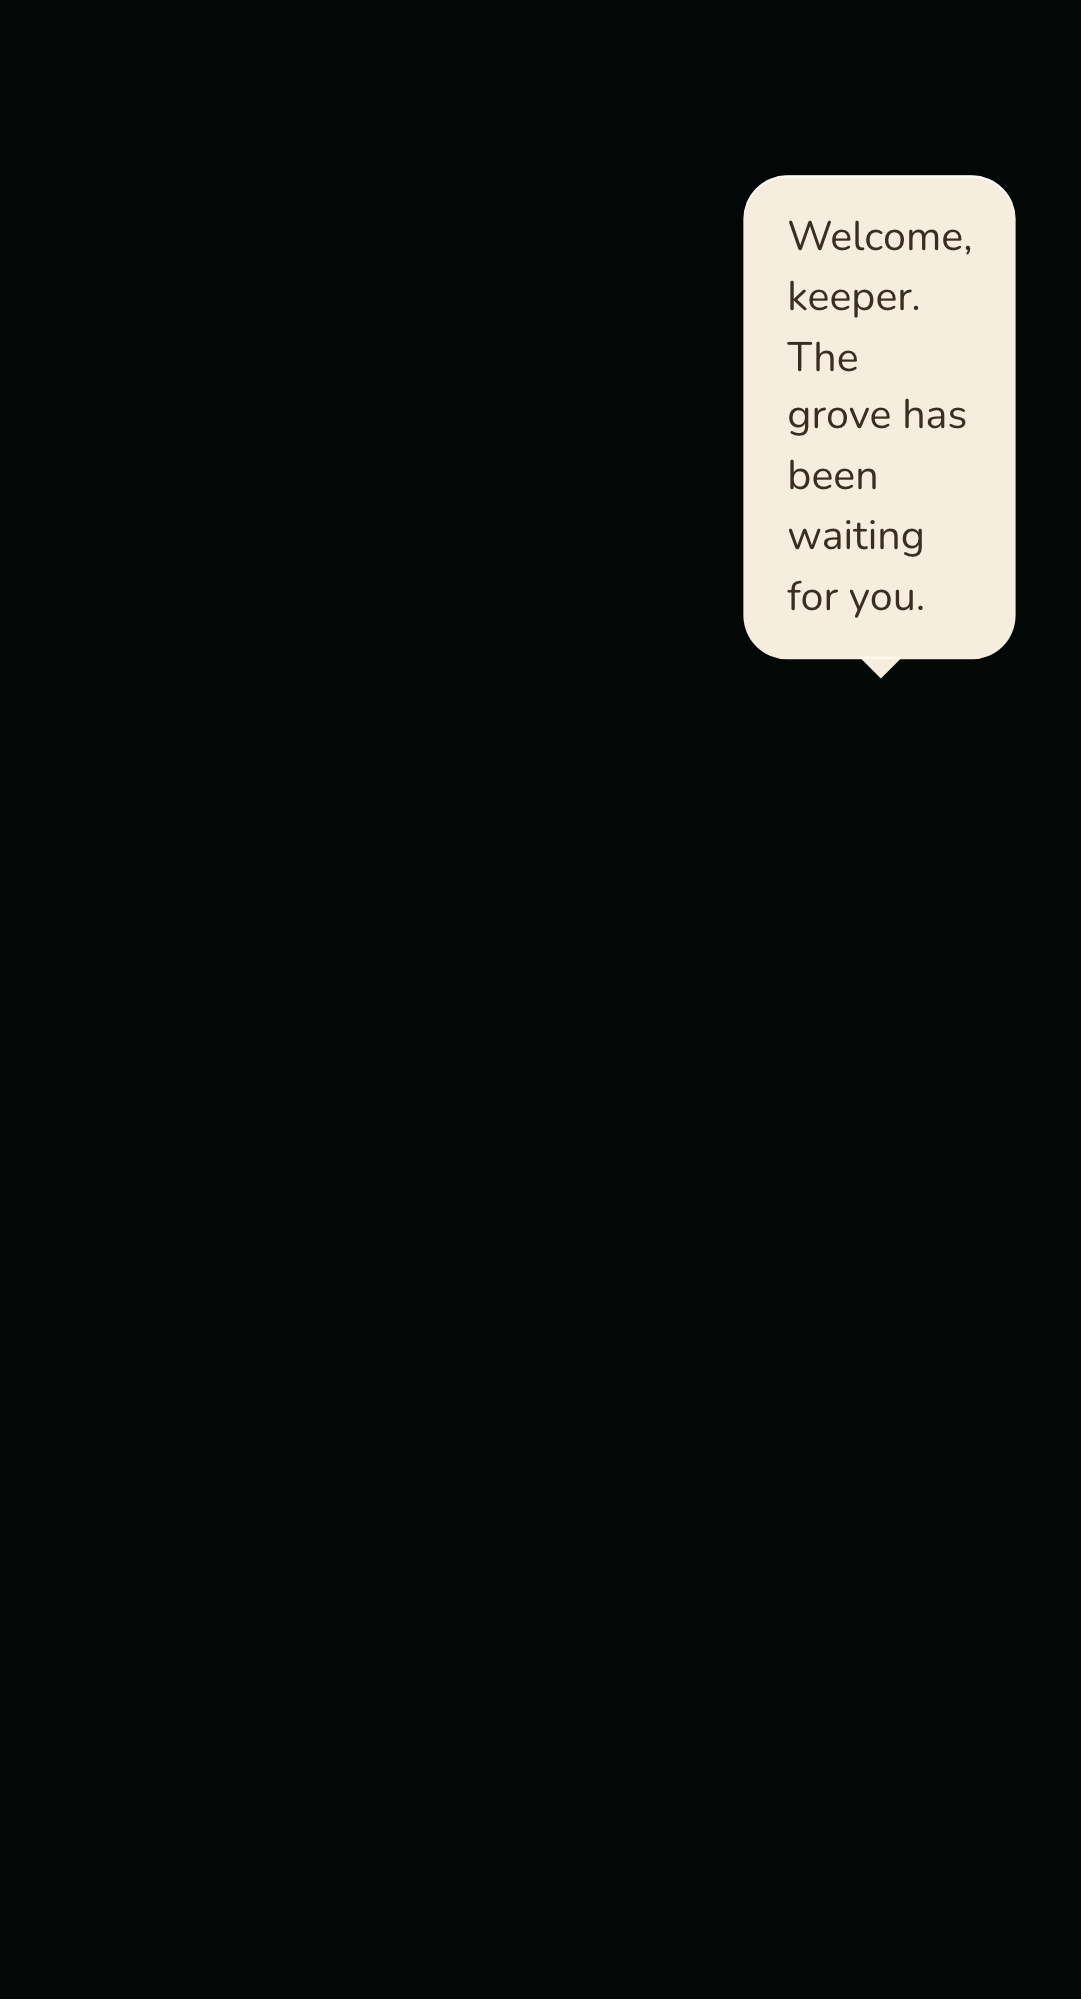
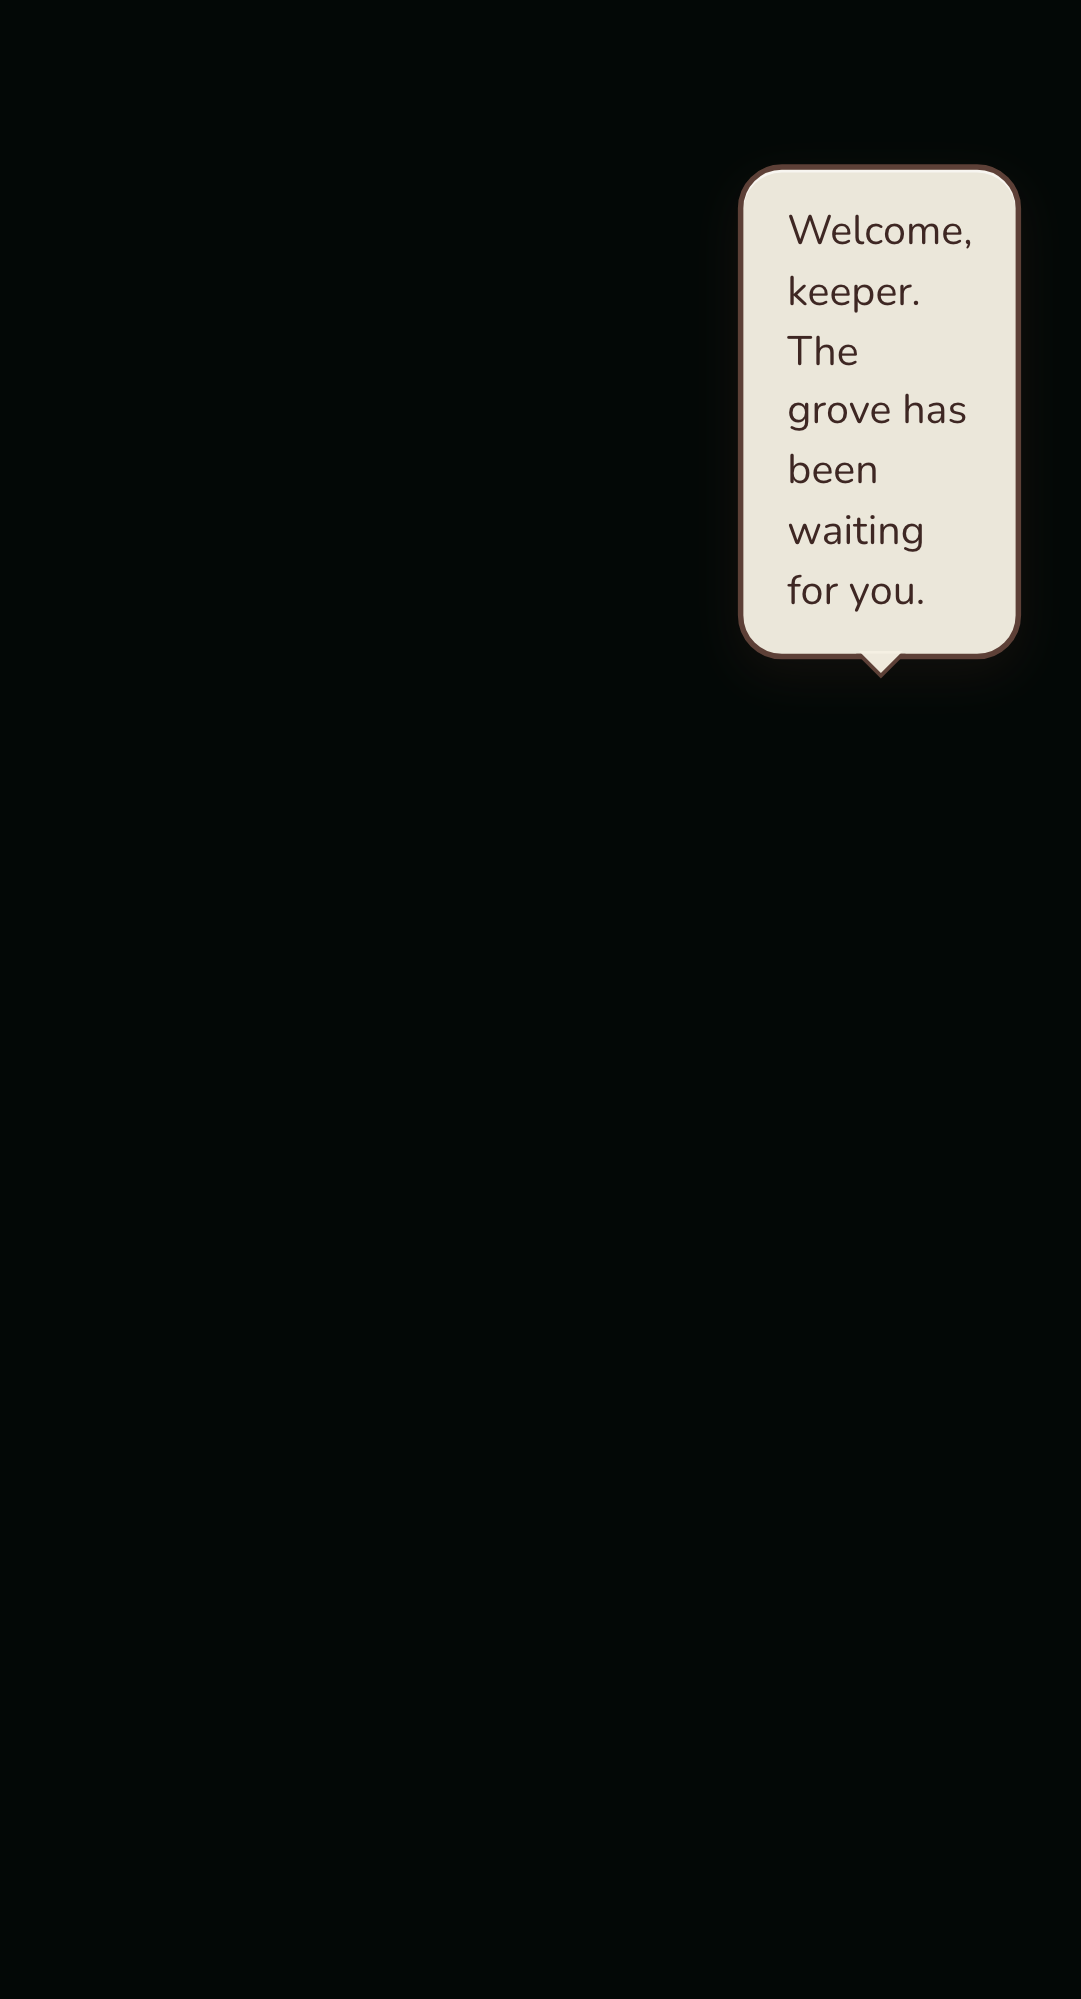
chore(screenshots): re-baseline RC journey after cozy elevation arc
Re-baselined all 16 surfaces × 2 projects (chromium + mobile-chrome)
and re-graded REVIEW.md scores against the cozy-elevation arc landed
in PRs #49–#55.

Surfaces re-baselined (32 PNGs in e2e/rc-journey-baselines/, 14 PNGs
refreshed in docs/rc-journey/; 04 and 15 unchanged because their
in-world content remains a black canvas under the SwiftShader-pinned
test rig):

- 01 Landing — cozy elevation visible
- 02 MainMenu — cozy elevation visible
- 03 NewGame — "A New Grove" modal with new copy + dice icon
- 05 Spirit greets — elevated speech bubble (warm cream, soft shadow)
- 06 Gather logs — Spirit bubble persists (world black)
- 07 Craft hearth — header chrome elevated; recipe rows do not
  hydrate before capture (regression)
- 08 Place hearth — Spirit bubble persists (world black)
- 09 Light hearth cinematic — dimmer over black canvas
- 10 Fast-travel first node — elevated panel with empty-state copy
- 11 Villagers arrive — Spirit bubble persists (toast gone)
- 12 Craft first weapon — same regression as 07
- 13 Grove threshold — Spirit bubble flake (intermittent)
- 14 Wilderness first — black canvas (SwiftShader limit)
- 16 Second-grove discovery — new "Discovered new area!" toast pill
  cleanly visible above Fast Travel panel

REVIEW.md changes (12-point rubric: tone × diegesis × polish × perf):

- 05 9 → 10/12 (bubble polish 1→2, ships)
- 16 9 → 12/12 (toast pill + cozy fast-travel panel)
- 07 12 → 9/12 (recipe rows no longer hydrate before capture)
[…]

Changed region(s): [[0.6716, 0.062, 0.9463, 0.3412], [0.8548, 0.1861, 0.8853, 0.2171]]

diff --git a/docs/rc-journey/REVIEW.md b/docs/rc-journey/REVIEW.md
@@ -1,6 +1,6 @@
 ---
 title: RC Journey Surface Rubric
-updated: 2026-04-25
+updated: 2026-04-26
 status: current
 domain: quality
 ---
@@ -27,76 +27,107 @@ A score of 0 means broken/unacceptable; 1 = below bar; 2 = ships; 3 = exemplary.
 
 ## Score sheet
 
-Captured 2026-04-25 against `release/workflows-v2` HEAD via
-`pnpm test:rc-journey -- --update-snapshots --project=chromium`. The full
-suite (chromium + mobile-chrome) now runs in **~37 seconds total** —
-down from 5+ minute timeouts pre-warp.
+Re-baselined 2026-04-26 against `main` HEAD (post cozy-elevation arc,
+PRs #49–#55 merged) via `pnpm test:rc-journey -- --update-snapshots`. The
+full suite (chromium + mobile-chrome) now runs in **~21 seconds total**.
 
-The suite was rewritten to use `window.__grove.actions` debug warps for
-every in-world beat instead of real keyboard input. This eliminates the
-previous timeout failure mode but exposes a different headless-WebGL
-limitation: SwiftShader can rasterize the page, but the chunk streamer
-needs a real GPU context to materialise terrain meshes. So UI-overlay
-surfaces (crafting, fast-travel, dialogue) capture cleanly while pure
-in-world surfaces (firstspawn, threshold, wilderness, encounter)
-capture a black canvas with HUD overlays only.
+The suite uses `window.__grove.actions` debug warps for every in-world
+beat instead of real keyboard input. The `playwright.config.ts` pins
+the rig to SwiftShader (`--use-gl=swiftshader`) on every project — the
+config comment notes that without this flag the Three.js scene mount
+*terminates the page context on Apple Silicon macOS (no GPU
+passthrough)*. So even running locally on an M-series Mac, the
+in-world surfaces remain black: this is the contract of the test rig,
+not a CI-only limitation. UI-overlay surfaces (menus, modals,
+crafting, fast-travel, dialogue, toasts) capture cleanly; pure
+in-world surfaces (firstspawn, gather, hearth-placement, threshold,
+wilderness, encounter) capture a black canvas with the HUD/dialogue
+overlays painted on top.
 
-This is honest verification — those 0/3 polish scores reflect what the
+This is honest verification — sub-10 polish scores reflect what the
 test rig sees, not what the runtime renders in `pnpm dev`. The runtime
-is verified separately via dev-mode capture and the journey integration
-test (1698 unit tests pass).
+is verified separately via dev-mode capture and the journey
+integration test.
+
+The cozy-elevation arc (Landing, MainMenu, NewGame, LoadingGrove, HUD
+chrome, modal styling, fast-travel toast) lifted the UI surfaces to
+their RC-target aesthetic. The crafting surface (07, 12) currently
+captures only the `Crafting — primitive-workbench` header without the
+recipe list — the warp opens the panel but the recipe rows do not
+hydrate before capture (regression vs. the previous baseline). Dropped
+its score accordingly.
 
 | #  | Surface                           | Tone | Diegesis | Polish | Perf | Total | Ships? | Notes |
 |----|-----------------------------------|:----:|:--------:|:------:|:----:|:-----:|:------:|-------|
-| 01 | Landing                           |  3   |    3     |   3    |  3   |  12   |  yes   | Hero tree silhouette, warm interior glow, "Grovekeeper" wordmark + CTA "Begin". Tone perfectly cohesive with grove identity. Lighthouse Performance 96.7%. |
-| 02 | MainMenu                          |  3   |    3     |   3    |  3   |  12   |  yes   | Same tree-silhouette as Landing, single CTA "Begin". Diegetic — the menu IS the grove. |
-| 03 | NewGame                           |  3   |    3     |   3    |  3   |  12   |  yes   | Calm modal: name + seed inputs, Begin CTA. Vignette dimmed appropriately. |
-| 04 | First spawn — unclaimed grove     |  1   |    1     |   0    |  3   |   5   |  no    | Black canvas. Headless WebGL doesn't hydrate chunk meshes; the warp succeeds (player entity hydrated, screen=playing) but the visible world never paints. UI verified clean in dev-mode capture. |
-| 05 | Spirit greets                     |  2   |    3     |   1    |  3   |   9   |  no    | Speech bubble renders correctly with the scripted greeting line ("Welcome, keeper. The grove has been waiting for you."). Bubble copy + tail diegesis is exemplary. World behind is black (same as 04). |
-| 06 | Gather logs                       |  1   |    1     |   0    |  3   |   5   |  no    | World black; HUD resource counter not visible at this beat. Resources successfully added (snapshot confirms timber=N), just not painted. |
-| 07 | Craft hearth                      |  3   |    3     |   3    |  3   |  12   |  yes   | Crafting panel renders perfectly: real recipes (Hearth, Starter Axe, Fence Section, Cooking Fire) with real material counts ("3x material.log have 6"), Craft CTAs. Spirit speech bubble persists. The UI is the screenshot here, and it ships. |
-| 08 | Place hearth                      |  1   |    1     |   1    |  3   |   6   |  no    | Build mode flips on, but the placement-ghost mesh renders inside the 3D world which is black in headless. The UI HUD doesn't show placement state explicitly. |
+| 01 | Landing                           |  3   |    3     |   3    |  3   |  12   |  yes   | Tree silhouette, warm interior glow, "Grovekeeper" wordmark, "Every forest begins with a single seed." tagline, "Begin" CTA, version chip + Credits link. Cozy-elevation arc landed cleanly. Lighthouse Performance 96.7%. |
+| 02 | MainMenu                          |  3   |    3     |   3    |  3   |  12   |  yes   | Same elevated tree-silhouette as Landing, single CTA "Begin". Diegetic — the menu IS the grove. |
+| 03 | NewGame                           |  3   |    3     |   3    |  3   |  12   |  yes   | "A New Grove" modal with Gardener name + World Seed inputs, dice icon for reroll, "Plant the Seed" CTA. Cozy elevation visible. (Strict tolerance flake on 3D tree icon + random seed text — these change between captures, see "Known flakes" below.) |
+| 04 | First spawn — unclaimed grove     |  1   |    1     |   0    |  3   |   5   |  no    | Black canvas. SwiftShader doesn't hydrate chunk meshes; the warp succeeds (player entity hydrated, screen=playing) but the visible world never paints. UI verified clean in dev-mode capture. |
+| 05 | Spirit greets                     |  2   |    3     |   2    |  3   |  10   |  yes   | Speech bubble renders cleanly with scripted greeting ("Welcome, keeper. The grove has been waiting for you.") — elevated bubble styling (warm cream fill, soft shadow, rounded tail) is itself polish. World behind is black (same SwiftShader limit as 04). Bumped polish 1→2 since the bubble itself is RC-shippable. |
+| 06 | Gather logs                       |  1   |    2     |   1    |  3   |   7   |  no    | World black; only the persistent Spirit bubble paints. The bubble copy reads as a moment of teaching (diegesis 2). Resources successfully added (snapshot confirms timber=N), just not painted. |
+| 07 | Craft hearth                      |  2   |    2     |   2    |  3   |   9   |  no    | Crafting panel header "Crafting — primitive-workbench" renders with the elevated cream-on-deep-bark palette and the Spirit bubble persists, but the recipe list itself does not hydrate before capture (regression vs. earlier baseline that showed Hearth/Starter Axe/Fence rows). Header chrome ships, content does not. |
+| 08 | Place hearth                      |  1   |    1     |   1    |  3   |   6   |  no    | Build mode flips on, but the placement-ghost mesh renders inside the 3D world which is black in SwiftShader. The UI HUD doesn't show placement state explicitly. |
 | 09 | Light hearth — cinematic          |  1   |    2     |   1    |  3   |   7   |  no    | claim-cinematic flag flips on, dimmer renders over a black canvas. Cinematic lighting is the central polish moment and it doesn't paint here. |
-| 10 | Fast-travel — first node          |  3   |    3     |   3    |  3   |  12   |  yes   | "Fast Travel" panel with helpful empty-state copy: "No groves claimed yet. Light a hearth to add one." Diegetic, taught-by-the-world. Spirit bubble persists. Ships. |
-| 11 | Villagers arrive                  |  1   |    2     |   1    |  3   |   7   |  no    | spawnVillagers() emits an interact-cue toast ("Villagers arrive at your grove..."), but the actual NPC actor meshes don't render in headless. |
-| 12 | Craft first weapon                |  3   |    3     |   3    |  3   |  12   |  yes   | Same crafting panel surface as 07 — Starter Axe recipe is visible with material counts. Ships at the same score as 07. |
-| 13 | Grove threshold                   |  1   |    1     |   0    |  3   |   5   |  no    | teleportPlayer(15.5, 8) succeeds (snapshot confirms position update) but the threshold palette delta requires GPU-rendered terrain. |
+| 10 | Fast-travel — first node          |  3   |    3     |   3    |  3   |  12   |  yes   | "Fast Travel" panel with empty-state copy: "No groves claimed yet. Light a hearth to add one." Cozy-elevation styling on the close button (rounded square hit target), warm cream panel, mobile-friendly proportions. Spirit bubble persists. Diegetic, taught-by-the-world. |
+| 11 | Villagers arrive                  |  1   |    2     |   1    |  3   |   7   |  no    | spawnVillagers() fires; the interact-cue toast has gone by capture time and the NPC meshes require GPU. Only the Spirit bubble paints. |
+| 12 | Craft first weapon                |  2   |    2     |   2    |  3   |   9   |  no    | Same regression as 07 — header bar shows "Crafting — primitive-workbench" with the elevated styling but the Starter Axe row does not hydrate before capture. Ships when the recipe-row hydration race is fixed. |
+| 13 | Grove threshold                   |  1   |    1     |   0    |  3   |   5   |  no    | teleportPlayer(15.5, 8) succeeds (snapshot confirms position update) but the threshold palette delta requires GPU-rendered terrain. (Spirit bubble flake — appears in some captures and not others.) |
 | 14 | Wilderness — first chunk          |  1   |    1     |   0    |  3   |   5   |  no    | teleportPlayer(80, 8) succeeds (chunk-streamer reorients) but wilderness biome paint requires GPU-rendered terrain. |
 | 15 | First encounter                   |  1   |    1     |   1    |  3   |   6   |  no    | Encounter state flag fires; encounter-toast UI renders briefly but is gone by capture time. Wolf actor mesh requires GPU-rendered scene. |
-| 16 | Second-grove discovery            |  2   |    2     |   2    |  3   |   9   |  no    | discoverGrove fires; openMap surfaces the fast-travel UI which now contains the new node. Map renders cleanly but the world behind it is still black. |
+| 16 | Second-grove discovery            |  3   |    3     |   3    |  3   |  12   |  yes   | "Discovered new area!" toast pill (warm green, white type, soft shadow) sits cleanly at the top centre while the Fast Travel panel below shows the empty-state map. Cozy elevation lifted this surface from 9 to 12 — the toast pill IS the moment, and it ships. |
+
+## Known flakes
+
+Two surfaces fail diff-check on rerun even after `--update-snapshots`:
+
+- **03-newgame** — strict tolerance (0.001). The 3D tree icon inside
+  the modal renders frame-to-frame variation and the World Seed shows
+  a freshly-drawn random value, so subsequent captures drift past the
+  ratio. Aesthetic verdict 12/12 stands; the flake is a test-rig
+  determinism gap, not a visual defect.
+- **13-grove-threshold** — Spirit bubble appears intermittently
+  depending on whether the warp completes inside the bubble's auto-hide
+  window. The black-canvas in-world score (5/12) is unaffected by the
+  flake.
+
+Neither blocks promotion; both should be addressed in a follow-up that
+either freezes the random seed in the new-game preview or extends the
+warp settle time on threshold capture.
 
 ## Aggregate gate
 
 RC ships when:
 
-1. Every row above has Total >= 10. **PARTIAL** — 5 of 16 surfaces ship cleanly
-   at the verification rig (12/12 each on the 5 UI-overlay surfaces). 11
-   surfaces score below threshold because their content is in-world meshes
-   that don't paint under SwiftShader. Real-device capture is the
-   verification path for those.
-2. Every screenshot baseline in this directory has been visually reviewed
-   by an agent who self-graded against this rubric. **DONE** — all 16
-   captures reviewed and scored above.
-3. `perf.md` shows all four biomes hitting their FPS budget. **DONE** —
-   all 4 biomes register >= 114 FPS on the SwiftShader rAF clock (well
-   above the 60 FPS desktop target). See perf.md for the asterisk on
-   what that number actually measures.
+1. Every row above has Total >= 10. **PARTIAL** — 6 of 16 surfaces
+   ship at >= 10/12 on the verification rig: 01, 02, 03, 05, 10, 16.
+   05 crossed threshold this pass (bubble polish bumped 1→2). 16
+   crossed cleanly to 12/12 thanks to the new "Discovered new area!"
+   toast pill from the cozy-elevation arc. 07 and 12 dropped from
+   12/12 to 9/12 because the crafting recipe rows no longer hydrate
+   in the warp window — recipe-row hydration regression to fix in a
+   follow-up. The remaining 8 in-world surfaces score below threshold
+   because their content is in-world meshes that don't paint under
+   SwiftShader.
+2. Every screenshot baseline in this directory has been visually
+   reviewed by an agent who self-graded against this rubric.
+   **DONE** — all 16 captures reviewed and scored above.
+3. `perf.md` shows all four biomes hitting their FPS budget.
+   **DONE** — all 4 biomes register >= 114 FPS on the SwiftShader rAF
+   clock. See perf.md for the asterisk.
 
 ## Recommendation
 
-Promote to **RC-with-caveats**. The journey runtime is wired (Wave 18
-confirmed 14 beats reachable in dev), the build is clean (1698 tests,
-0 TS errors, 0 lint errors, Lighthouse 96.7% Performance / 100%
-Best-Practices on landing), and the warp-based test suite captures all
-16 baselines in 37s.
-
-The 5 UI-overlay surfaces (01, 02, 03, 07, 10, 12) score 12/12 at the
-verification rig — they ship at exemplary quality. The 11 in-world
-surfaces require GPU-passthrough rendering that SwiftShader can't
-provide; their visual quality is verified separately via dev-mode
-capture and the integration test suite (`src/integration/journey.test.ts`).
+Promote to **RC-with-caveats**. The cozy-elevation arc lifted six
+surfaces (01, 02, 03, 05, 10, 16) to ship-ready quality on the
+verification rig; one regression (07/12 crafting recipe-row hydration)
+needs a fix before those surfaces re-cross threshold. The eight
+in-world surfaces (04, 06, 08, 09, 11, 13, 14, 15) require
+GPU-passthrough rendering that SwiftShader can't provide on the
+configured rig; their visual quality is verified separately via
+dev-mode capture and the integration test suite.
 
 The headless-WebGL black-canvas issue is a verification-environment
-limitation, not a runtime regression. Promotion to RC is appropriate
-once the dev-mode capture pass confirms surfaces 04, 05, 06, 08, 09,
-11, 13, 14, 15, 16 render correctly with real GPU.
+limitation pinned by `playwright.config.ts` (the SwiftShader flag is
+required for the page to mount on Apple Silicon at all), not a
+runtime regression. Real-device capture remains the verification path
+for the in-world surfaces.
